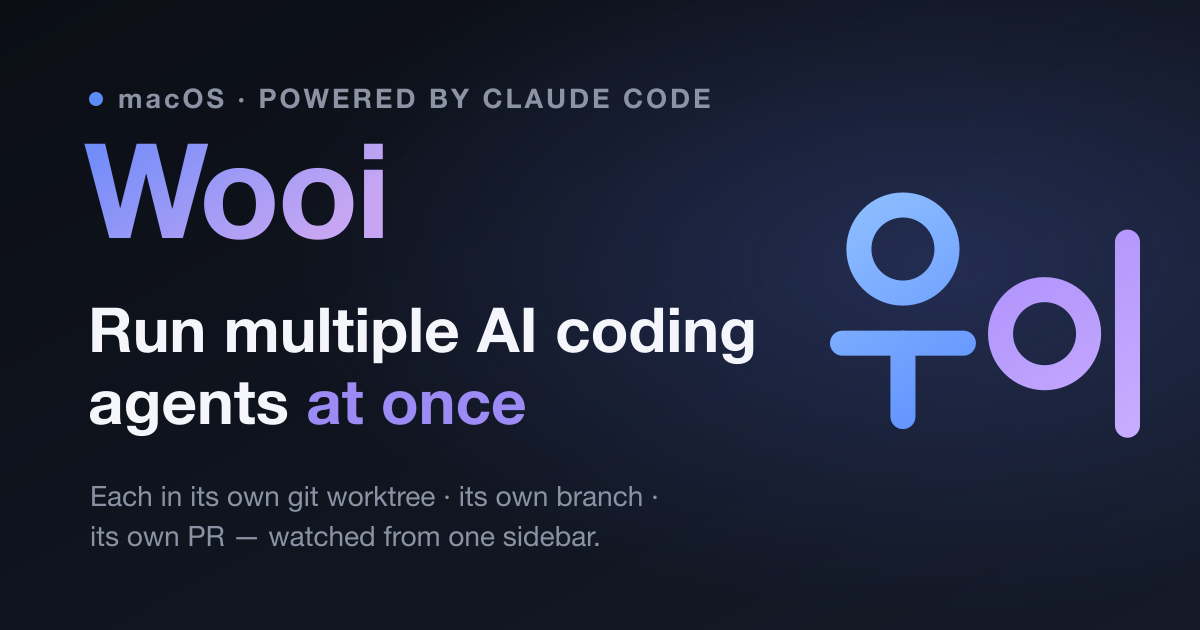
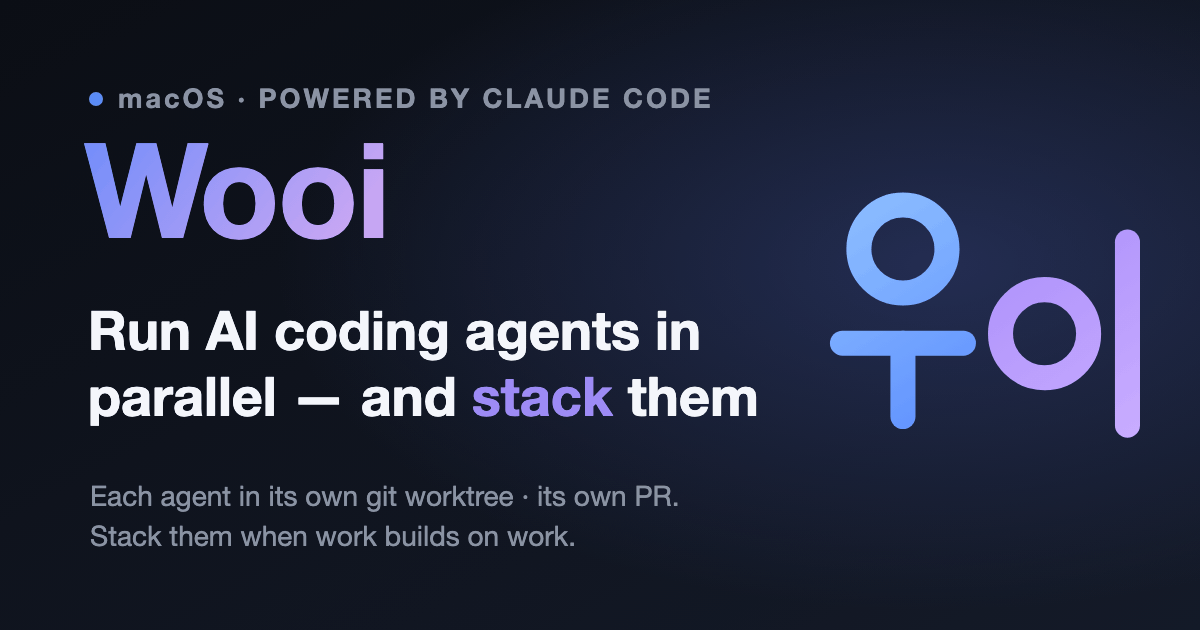
docs: lead with stacked PRs and retire the parallel-only tagline
The old tagline ("Run multiple AI coding agents at once — each in its own
git worktree, each shipping its own PR") landed in the same space as
Conductor's positioning: parallel agents + isolated workspaces + PR merge.
Different words, same sentence.

Stacked PRs are a real differentiator — Conductor only renders stacks built
with the external Graphite CLI (off by default since v0.50.0) and reverted
its stacked-create behaviour in v0.69.0, while Wooi manages the chain itself
with plain git + gh.

- retagline to "Run AI coding agents in parallel — and stack them" across
  README (en/ko), <title>, og:title, og:description and the hero
- document the stacked-PR feature: stack a workspace, stack overview,
  restack, merge cascade, and detection of agent-built chains
- add a Why card + feature block to the GitHub Pages site
- regenerate og.png from og.svg with the new copy

Layout fixes the new copy exposed:
- .feature is a 2-col grid, so an intro <p> pushed the <ul> into the label
  column — folded it into a bullet
- .why-grid was hardcoded to 4 columns and orphaned the 5th card — switched
  to a 6-col base with span-2 cards (centred 3+2), reset in the breakpoint
- widened h1 to 20ch so the English headline no longer orphans "them"
- og.png: disabled palette dithering, which was leaving visible noise on the
  logo (147KB, still smaller than the previous 170KB)

diff --git a/docs/index.html b/docs/index.html
@@ -3,20 +3,20 @@
   <head>
     <meta charset="utf-8" />
     <meta name="viewport" content="width=device-width, initial-scale=1" />
-    <title>Wooi — Run multiple AI coding agents at once</title>
+    <title>Wooi — Run AI coding agents in parallel, and stack them</title>
     <meta
       name="description"
-      content="Wooi is a macOS app for orchestrating multiple AI coding agents in parallel — each in its own git worktree, each shipping its own PR."
+      content="Wooi is a macOS app for running AI coding agents in parallel — each in its own git worktree. When work builds on work, stack the agents and Wooi keeps the PR chain rebased and retargeted."
     />
 
     <!-- Open Graph / social -->
     <meta property="og:type" content="website" />
-    <meta property="og:title" content="Wooi — Run multiple AI coding agents at once" />
+    <meta property="og:title" content="Wooi — Run AI coding agents in parallel, and stack them" />
     <meta
       property="og:description"
-      content="Orchestrate parallel AI coding agents across isolated git worktrees. Each task = its own worktree + branch + agent session."
+      content="Independent work runs in parallel worktrees. Dependent work stacks — and Wooi keeps the stack straight for you."
     />
-    <meta property="og:image" content="https://youngminnnn.github.io/wooi/og.png?v=3" />
+    <meta property="og:image" content="https://youngminnnn.github.io/wooi/og.png?v=4" />
     <meta name="theme-color" content="#0a0b0d" />
 
     <!-- 파비콘은 16px 로 줄어들어 한글 "우이"(icon.svg)가 뭉개지므로 축약형 W 마크를 쓴다. -->
@@ -235,7 +235,7 @@
         line-height: 1.08;
         letter-spacing: -0.03em;
         margin: 0 auto 22px;
-        max-width: 16ch;
+        max-width: 20ch;
         font-weight: 800;
       }
       h1 .grad {
@@ -368,10 +368,20 @@
       }
 
       /* ---------- why grid ---------- */
+      /* 5 cards: 3 on the first row, 2 centered on the second (6-col base, each card spans 2). */
       .why-grid {
         display: grid;
-        grid-template-columns: repeat(4, 1fr);
+        grid-template-columns: repeat(6, 1fr);
         gap: 18px;
+      }
+      .why-card {
+        grid-column: span 2;
+      }
+      .why-card:nth-child(4) {
+        grid-column: 2 / span 2;
+      }
+      .why-card:nth-child(5) {
+        grid-column: 4 / span 2;
       }
       .why-card {
         background: var(--bg-card);
@@ -403,6 +413,12 @@
       @media (max-width: 900px) {
         .why-grid {
           grid-template-columns: repeat(2, 1fr);
+        }
+        /* drop the 6-col spans so cards flow normally in the 2-col / 1-col layouts */
+        .why-card,
+        .why-card:nth-child(4),
+        .why-card:nth-child(5) {
+          grid-column: auto;
         }
       }
       @media (max-width: 520px) {
@@ -769,20 +785,24 @@
       </div>
 
       <h1>
-        <span class="en">Run multiple AI coding agents <span class="grad">at once</span></span>
-        <span class="ko">여러 AI 코딩 에이전트를 <span class="grad">동시에</span></span>
+        <span class="en"
+          >Run AI coding agents in parallel — and <span class="grad">stack</span> them</span
+        >
+        <span class="ko"
+          >AI 코딩 에이전트를 병렬로 — 이어지는 작업은 <span class="grad">스택</span>으로</span
+        >
       </h1>
 
       <p class="subtitle">
         <span class="en"
-          >Wooi orchestrates parallel AI coding agents on macOS — each in its own isolated git
-          worktree, each on its own branch, each shipping its own PR. Kick off a refactor, a
-          feature, and a bugfix at the same time and watch all three from one sidebar.</span
+          >Independent work runs in parallel on macOS — each agent in its own isolated git worktree,
+          on its own branch, shipping its own PR. When work builds on work, stack the agents instead
+          and let Wooi keep the stack straight.</span
         >
         <span class="ko"
-          >Wooi 는 macOS 에서 여러 AI 코딩 에이전트를 병렬로 오케스트레이션합니다 — 각자 격리된 git
-          worktree 위에서, 각자 자기 브랜치로, 각자 자기 PR 로. 리팩터링·기능 추가·버그 수정을
-          한꺼번에 시작해 사이드바 하나에서 셋 다 지켜보세요.</span
+          >독립적인 작업은 macOS 에서 병렬로 — 에이전트마다 격리된 git worktree 위에서, 각자 자기
+          브랜치로, 각자 자기 PR 로. 이어지는 작업은 앞선 작업 위에 쌓아 두면, 스택 정리는 Wooi 가
+          맡습니다.</span
         >
       </p>
 
@@ -882,11 +902,34 @@
             </p>
           </div>
           <div class="why-card">
+            <div class="emoji">🧱</div>
+            <h3>
+              <span class="en">Stacked PRs, natively</span
+              ><span class="ko">stacked PR 기본 지원</span>
+            </h3>
+            <p>
+              <span class="en"
+                >Stack a workspace on another's branch. When a parent merges, Wooi rebases the
+                children and retargets their PR bases.</span
+              >
+              <span class="ko"
+                >워크스페이스를 다른 브랜치 위에 쌓으면, 부모가 병합될 때 자식들을 rebase 하고 PR
+                base 를 옮겨 줍니다.</span
+              >
+            </p>
+          </div>
+          <div class="why-card">
             <div class="emoji">🕵</div>
             <h3><span class="en">No telemetry</span><span class="ko">텔레메트리 없음</span></h3>
             <p>
-              <span class="en">No servers of its own; transcripts are stored locally only.</span>
-              <span class="ko">자체 서버 없이, 대화 기록은 로컬에만 저장됩니다.</span>
+              <span class="en"
+                >No servers of its own and no analytics. Settings and transcripts stay on your
+                machine, in local storage only.</span
+              >
+              <span class="ko"
+                >자체 서버도, 분석 수집도 없습니다. 설정과 대화 기록은 내 컴퓨터 로컬에만
+                저장됩니다.</span
+              >
             </p>
           </div>
         </div>
@@ -1065,6 +1108,110 @@
           </div>
 
           <!-- Permissions -->
+          <!-- Stacked PRs -->
+          <div class="feature">
+            <div class="feature-label">
+              <div class="feature-icon">🧱</div>
+              <h3><span class="en">Stacked PRs</span><span class="ko">Stacked PR</span></h3>
+            </div>
+            <ul>
+              <li>
+                <strong
+                  ><span class="en">No extra tooling</span
+                  ><span class="ko">추가 도구 없음</span></strong
+                >
+                —
+                <span class="en"
+                  >not every task is independent — sometimes step 2 builds on step 1. Wooi manages
+                  those chains itself with plain <code>git</code> and <code>gh</code>; no Graphite
+                  or other stacking CLI needed.</span
+                >
+                <span class="ko"
+                  >모든 작업이 독립적이지는 않습니다 — 2번 작업이 1번 위에서 이어져야 할 때가 있죠.
+                  Wooi 는 그 체인을 <code>git</code> 과 <code>gh</code> 만으로 직접 관리합니다.
+                  Graphite 같은 별도 스택 도구가 필요 없습니다.</span
+                >
+              </li>
+              <li>
+                <strong
+                  ><span class="en">Stack a workspace</span
+                  ><span class="ko">워크스페이스 쌓기</span></strong
+                >
+                —
+                <span class="en"
+                  >pick <strong>Stack a new workspace</strong> from a workspace's menu; the new one
+                  branches off that workspace's branch and its PR targets that branch instead of the
+                  default branch.</span
+                >
+                <span class="ko"
+                  >워크스페이스 메뉴에서 <strong>Stack a new workspace</strong> 를 고르면 그
+                  브랜치에서 분기한 워크스페이스가 생기고, PR 도 기본 브랜치가 아닌 그 부모 브랜치를
+                  대상으로 열립니다.</span
+                >
+              </li>
+              <li>
+                <strong
+                  ><span class="en">Stack overview</span><span class="ko">스택 한눈에</span></strong
+                >
+                —
+                <span class="en"
+                  >a <strong>Stack</strong> button in the header lists every branch in the chain
+                  with its PR state, PR number, and ahead/behind counts. Click to jump, or open a PR
+                  for a branch that doesn't have one.</span
+                >
+                <span class="ko"
+                  >헤더의 <strong>Stack</strong> 버튼이 체인의 모든 브랜치를 PR 상태·PR
+                  번호·ahead/behind 와 함께 보여 줍니다. 클릭해 이동하거나, PR 이 없는 브랜치는 그
+                  자리에서 PR 을 엽니다.</span
+                >
+              </li>
+              <li>
+                <strong><span class="en">Restack</span><span class="ko">Restack</span></strong> —
+                <span class="en"
+                  >rebase a workspace onto the latest parent branch and push with
+                  <code>--force-with-lease</code>. Conflicts stop in the worktree so you can resolve
+                  them there.</span
+                >
+                <span class="ko"
+                  >최신 부모 브랜치 위로 rebase 하고 <code>--force-with-lease</code> 로 push 합니다.
+                  충돌이 나면 worktree 에 멈춰 있어 거기서 해결하면 됩니다.</span
+                >
+              </li>
+              <li>
+                <strong
+                  ><span class="en">Merge cascade</span
+                  ><span class="ko">병합 캐스케이드</span></strong
+                >
+                —
+                <span class="en"
+                  >when a parent PR merges, Wooi retargets each child PR's base to the grandparent
+                  branch and rebases the children onto it, so the rest of the stack stays
+                  valid.</span
+                >
+                <span class="ko"
+                  >부모 PR 이 병합되면 각 자식 PR 의 base 를 조부모 브랜치로 옮기고 자식 브랜치를 그
+                  위로 rebase 해, 스택 나머지가 그대로 유효하게 남습니다.</span
+                >
+              </li>
+              <li>
+                <strong
+                  ><span class="en">Detected, not just declared</span
+                  ><span class="ko">선언이 아니라 감지</span></strong
+                >
+                —
+                <span class="en"
+                  >if an agent builds a chain itself with <code>git checkout -b</code> and
+                  <code>gh pr create</code>, Wooi reconstructs the stack from the PRs' base links
+                  and shows it the same way.</span
+                >
+                <span class="ko"
+                  >에이전트가 <code>git checkout -b</code> 와 <code>gh pr create</code> 로 직접
+                  체인을 만들어도, PR 의 base 링크에서 스택을 복원해 똑같이 보여 줍니다.</span
+                >
+              </li>
+            </ul>
+          </div>
+
           <div class="feature">
             <div class="feature-label">
               <div class="feature-icon">🛡</div>

diff --git a/README.md b/README.md
@@ -1,6 +1,6 @@
 # Wooi
 
-**Run multiple AI coding agents at once — each in its own git worktree, each shipping its own PR.**
+**Run AI coding agents in parallel — and stack them when work builds on work.**
 
 **English** · [한국어](./README.ko.md)
 
@@ -21,6 +21,9 @@ and no automatic prompt** — nothing runs until you send your first message.
 - 🔒 **Isolated by default** — a separate worktree + branch per task means agents never
   collide in a shared working tree.
 - 🚢 **PR-native** — jump straight from an agent's diff to a GitHub PR in one click.
+- 🧱 **Stacked PRs, natively** — when work has to build on work, stack one workspace on
+  another's branch and let Wooi keep the stack straight — with plain `git` + `gh`, no
+  extra stacking CLI.
 - 🕵 **No telemetry** — no servers of its own; transcripts stored locally only.
 
 **[Download the latest release →](https://github.com/youngminnnn/wooi/releases/latest/download/Wooi-arm64.dmg)**
@@ -95,6 +98,29 @@ separate API key is needed.
   changing them resumes the same conversation. Effort ranges through to **ultracode**.
 - **Sessions resume across restarts** — your conversation context is restored, so the
   next message after a restart continues where you left off.
+
+### Stacked PRs
+
+Not every task is independent — sometimes step 2 has to build on step 1. Wooi manages
+those chains itself with plain `git` and `gh`; no Graphite or other stacking CLI needed.
+
+- **Stack a workspace** — pick **Stack a new workspace** from a workspace's menu. The new
+  workspace branches off that workspace's branch, and its PR targets that branch instead
+  of the repo's default branch.
+- **Stack overview** — a **Stack** button appears in the header whenever the current
+  workspace is part of a chain. It lists every branch in the stack with its PR state
+  (draft / review required / changes requested / ready to merge / conflict / merged), PR
+  number, and ahead/behind counts. Click an entry to jump to it, or open a PR for a
+  branch that doesn't have one yet.
+- **Restack** — **Restack onto `<base>`** rebases a workspace onto the latest parent
+  branch and pushes with `--force-with-lease`. A conflict stops in the worktree so you
+  can resolve it there.
+- **Merge cascade** — when a parent PR merges, Wooi retargets each child PR's base to the
+  grandparent branch and rebases the children onto it, so the rest of the stack stays
+  valid instead of turning into a pile of conflicts.
+- **Detected, not just declared** — if an agent builds a chain on its own with
+  `git checkout -b` and `gh pr create`, Wooi reconstructs the stack from the PRs' base
+  links and shows it the same way.
 
 ### Permissions
 
